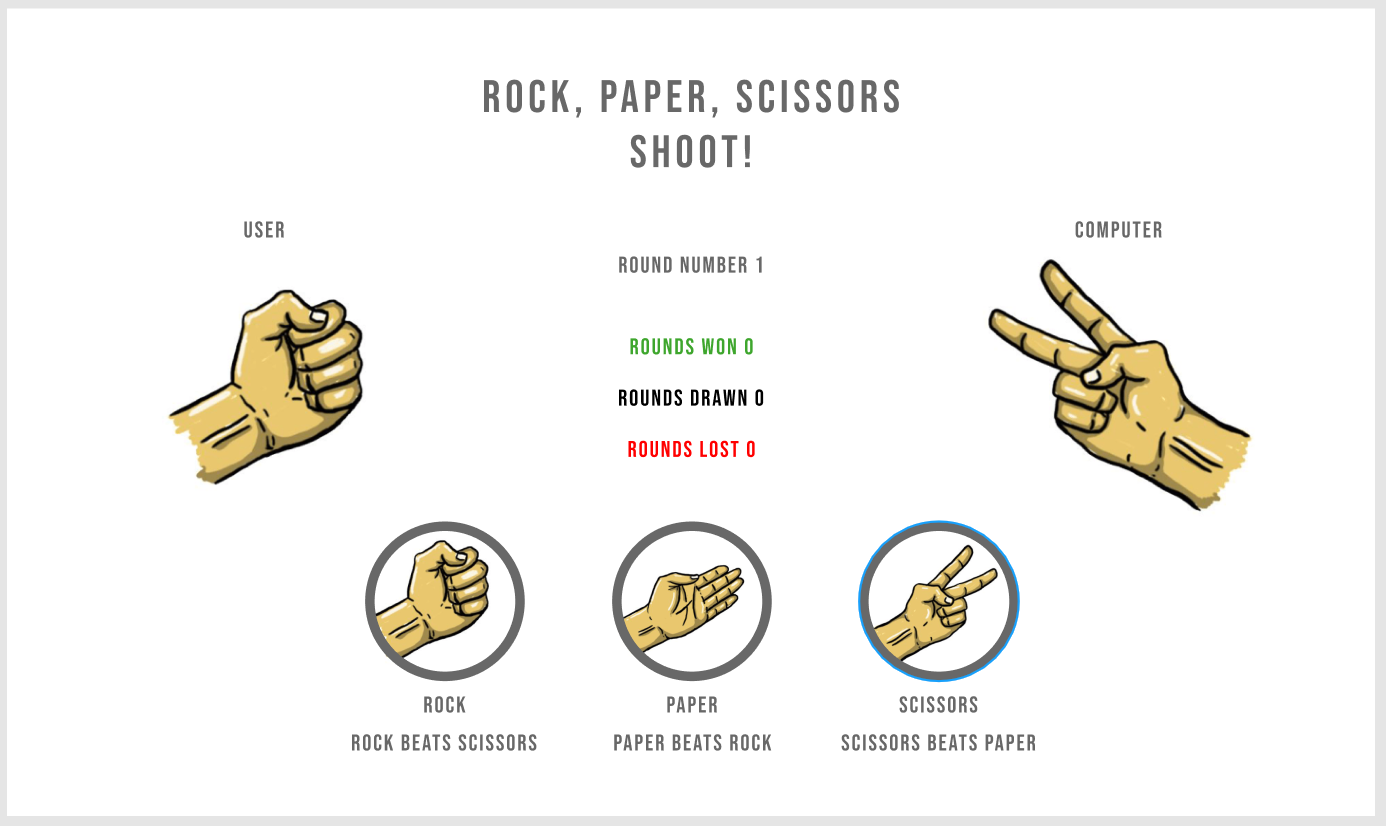
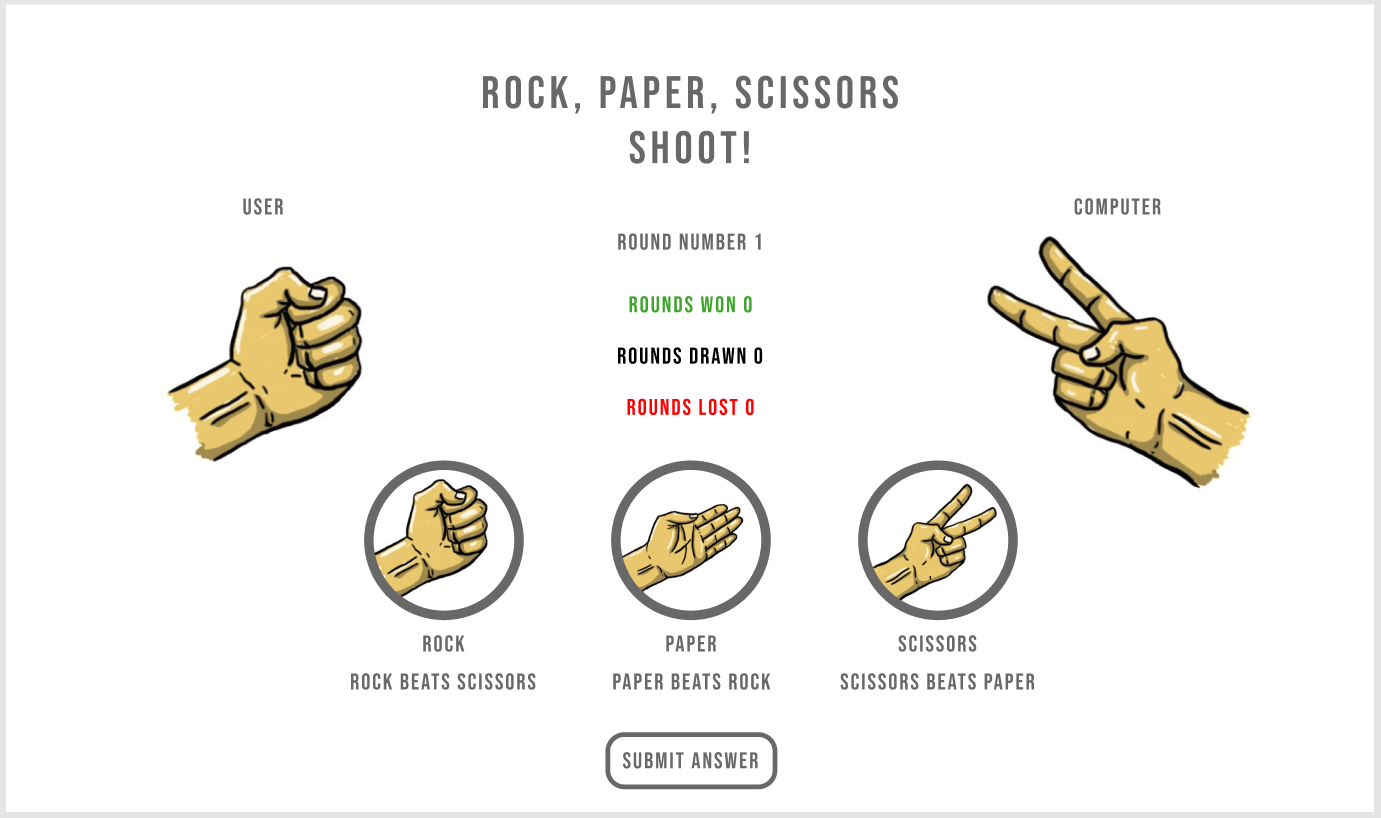
updated wireframes with submit buttons

diff --git a/assets/css/style.css b/assets/css/style.css
@@ -9,7 +9,7 @@ body {
 /* --------- Heading */
 
 .game-name{
-    margin-top: 25px;
+    margin-top: 75px;
     font-size: 2.5rem;
     letter-spacing: 5px;
 }
@@ -165,6 +165,8 @@ body {
     width: 180px;
     font-family: "Bebas Neue", sans-serif;
     font-size: 1.25rem;
+    letter-spacing: 2px;
+
     color: #686868;
     text-transform: uppercase;
     padding: 10px;
@@ -363,6 +365,10 @@ body {
     .round-number{
         font-size: 1rem;
         margin-top: 0;
+    }
+
+    .submit-style{
+        margin: 0;
     }
 }
 
